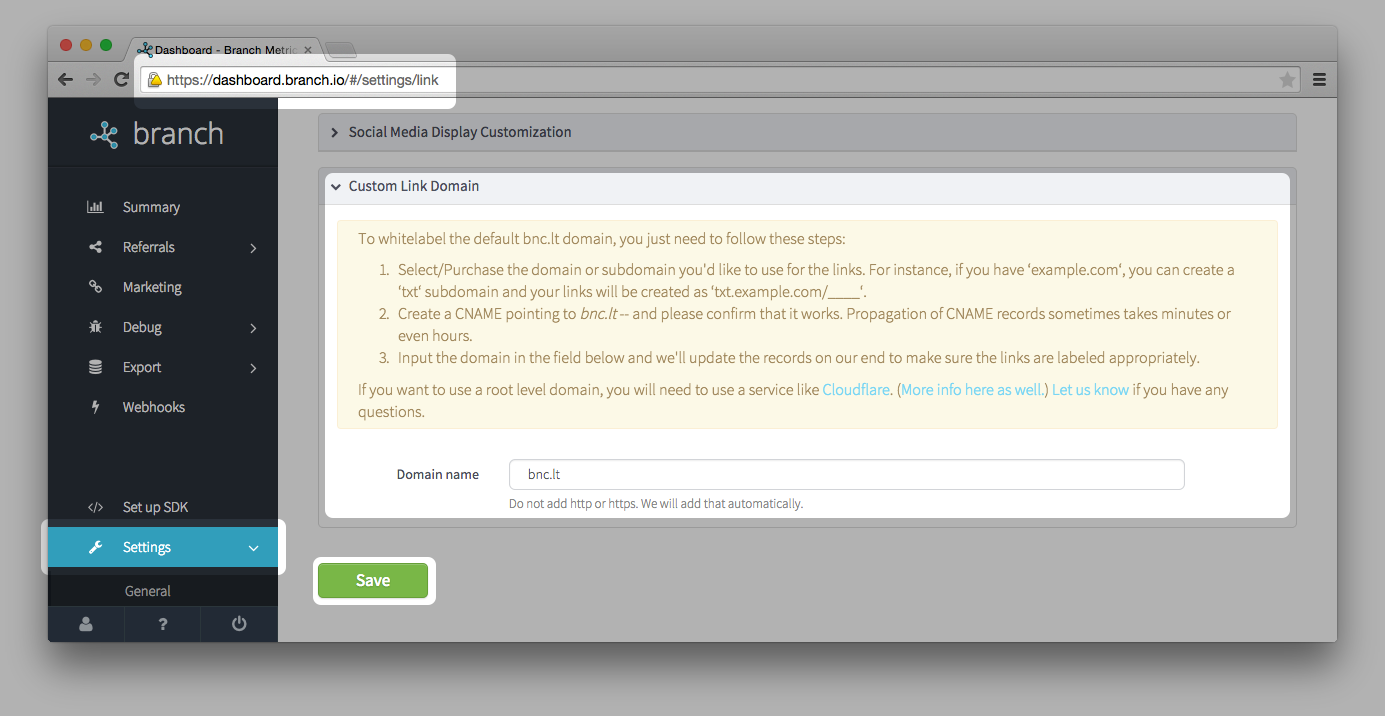
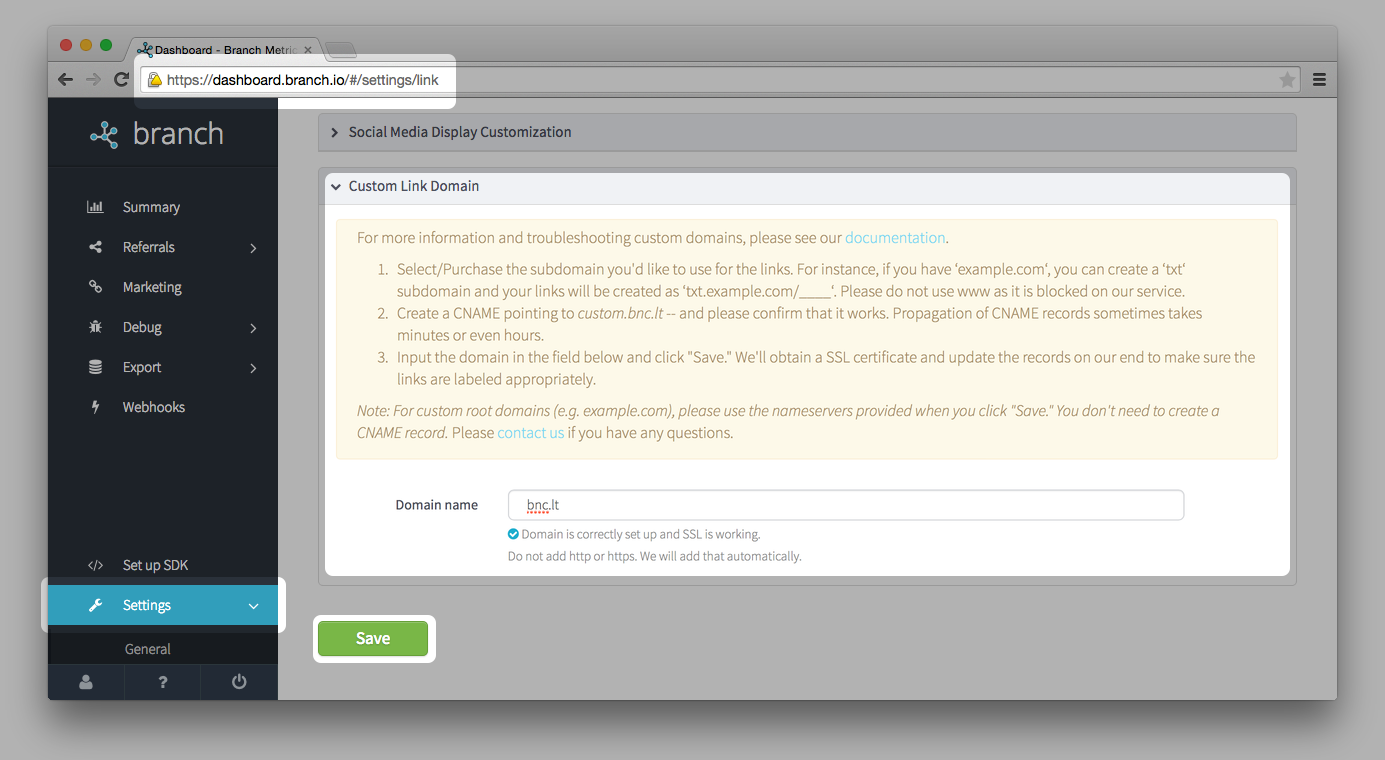
Updated custom domain/subdomain screenshot

diff --git a/pages/getting-started/dashboard-guide.md b/pages/getting-started/dashboard-guide.md
@@ -49,15 +49,21 @@ You must [identify your users]({{base.url}}/getting-started/setting-identities) 
 
 ## Setting a custom link domain
 
-While you may enjoy Branch, it doesn’t mean you need to have `bnc.lt` as a part of every link you send out. Setting up a custom subdomain is simple.
+While you may enjoy Branch, it doesn’t mean you need to have `bnc.lt` as a part of every link you send out. Setting up a custom domain or subdomain is simple. 
 
-{% protip title="SSL for custom domains" %}
+{% caution title="Avoid switching later" %}
+We recommend that you choose one domain or subdomain to use with Branch and stick with it, as switching can cause significant problems with your existing links.
+{% endcaution %}
+
+{% protip title="SSL for custom domains and subdomains" %}
 Branch automatically handles HTTPS traffic for custom subdomains and root domains. Branch will acquire the necessary SSL certificate if you follow the simple setup instructions below. Branch will also automatically renew the certificates when needed.
 {% endprotip %}
 
+{% image src='/img/pages/getting-started/dashboard-guide/custom_link_domain.png' full center alt='configuring a custom subdomain' %}
+
 ### Custom SUBDOMAIN (go.branch.com)
-1. Procure a subdomain, like `get.myapp.co`. We recommend you use subdomains instead of root domains, and preferably a subdomain of a different domain than your website. We also recommend that you choose one subdomain to use with Branch and stick with it, as switching between custom subdomains can cause problems.
-1. Create a CNAME for the subdomain and point it to `custom.bnc.lt`
+
+1. Create a CNAME for your subdomain and point it to `custom.bnc.lt`
 1. Go to [Link Settings](https://dashboard.branch.io/#/settings/link) on the Branch dashboard, and find the **Custom Link Domain** section.
 1. You should see a message telling you the status of your domain under the `Domain name` field. If you don't, please type your domain in again.
 1. Click the `Save` button.
@@ -68,9 +74,8 @@ Branch automatically handles HTTPS traffic for custom subdomains and root domain
 
 1. Go to [Link Settings](https://dashboard.branch.io/#/settings/link) on the Branch dashboard, and find the **Custom Link Domain** section.
 1. Enter your custom domain into the text box and click the `Save` button. (If the validation status doesn't update with nameservers please **refresh the page.**) {% image src='/img/pages/getting-started/universal-app-links/custom_domain_nameservers_error.png' full center alt='root domain nameservers' %}
-
 1. Go to your DNS configuration for your custom domain, and update your nameserver records with the Branch-provided nameservers.
-1. Click the `Save` button again.
+1. Click the `Save` button on the Branch dashboard again.
 
 ## Controlling default link redirection behavior
 
